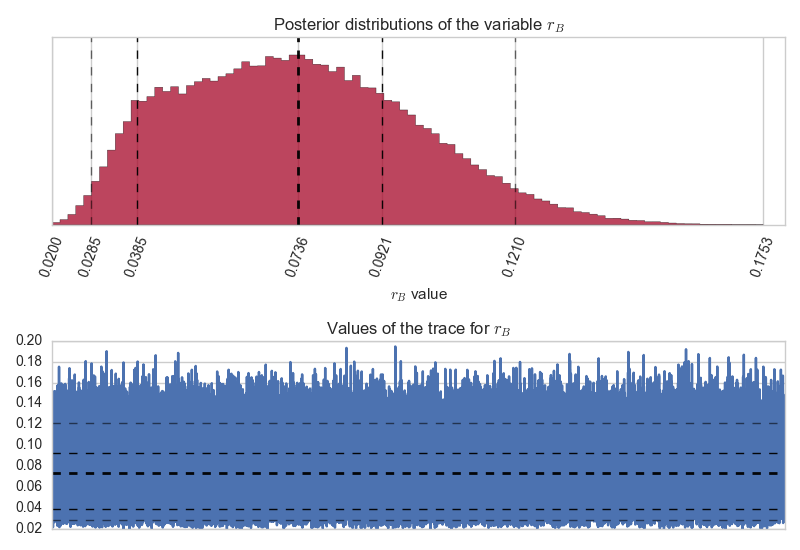
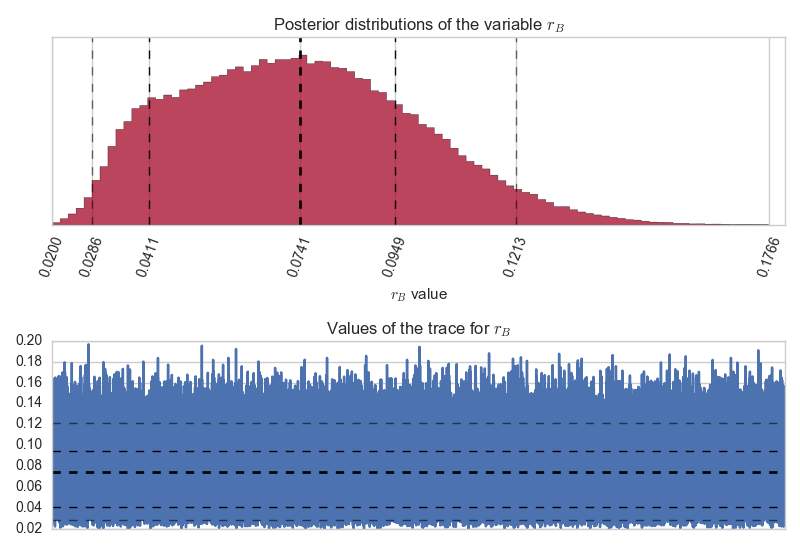
improved performance

diff --git a/combiner_pymc.py b/combiner_pymc.py
@@ -18,9 +18,8 @@ tstr = PyGammaCombo.TString
 sns.set_style("whitegrid")
 matplotlib.rcParams.update({'font.size': 10})
 N = 1000000 # Sample size (N/10 used for burning out)
-number_of_bins = 90
+number_of_bins = 100
 load_last_model = False
-experiment = PyGammaCombo.Utils.lumi3fb
 pgc_utils = PyGammaCombo.gammacombo_utils
 cout = PyGammaCombo.gammacombo_utils.getCout()
 
@@ -32,35 +31,11 @@ if __name__ == "__main__":
         deltaB = Uniform("deltaB", doc="$\delta_B$", lower=lower_limit, upper=upper_limit)
         rB = Uniform("rB", doc='$r_B$', lower=0.02, upper=0.2)
         var_list = [gamma, deltaB, rB]
-        parameters = PyGammaCombo.ParametersAbs()
-        g = parameters.newParameter(tstr("g"))
-        g.unit = tstr('Rad')
-        g.scan = parameters.range(commons.degToRad(lower_limit), commons.degToRad(upper_limit))
-        g.phys = parameters.range(-7, 7)
-        g.force = parameters.range(commons.degToRad(0), commons.degToRad(90))
-        g.bboos = parameters.range(commons.degToRad(0), commons.degToRad(180))
-
-        r_dk = parameters.newParameter(tstr("r_dk"))
-        r_dk.scan = parameters.range(0.02, 0.2)
-        r_dk.phys = parameters.range(0, 1e-4)
-        r_dk.force = parameters.range(0.02, 0.16)
-        r_dk.bboos = parameters.range(0.01, 0.22)
-
-
-        d_dk = parameters.newParameter(tstr("d_dk"))
-        d_dk.unit = tstr('Rad')
-        d_dk.scan = parameters.range(commons.degToRad(lower_limit), commons.degToRad(upper_limit))
-        g.phys = parameters.range(-7, 7)
-        g.force = parameters.range(commons.degToRad(0), commons.degToRad(90))
-        g.bboos = parameters.range(commons.degToRad(-180), commons.degToRad(180))
-        GGSZ_pdf = PyGammaCombo.PDF_GGSZ(experiment,
-                                             experiment,
-                                             experiment,
-                                             pars=parameters)
-        parameters = PyGammaCombo.RooArgSet(GGSZ_pdf.getParameters())
-
-        pdf = GGSZ_pdf.getPdf()
-
+        gce = PyGammaCombo.gammacombo_utils.getGammaComboEngine("")
+        cmb = gce.getCombiner(26)
+        cmb.combine()
+        parameters = cmb.getParameters()
+        pdf = cmb.getPdf()
 
         #Averaged experiments
         @stochastic
@@ -72,17 +47,17 @@ if __name__ == "__main__":
 
         # Model
         if load_last_model:
-            mcmc = pymc.database.pickle.load('mcmc-{}_gc.pickle'.format(name))
+            mcmc = pymc.database.pickle.load('mcmc-{}_combiner.pickle'.format(name))
         else:
             mcmc = MCMC([ggsz, gamma, deltaB, rB],
                         db='pickle',
                         dbmode='w',
-                        dbname='mcmc-{}_gc.pickle'.format(name))
+                        dbname='mcmc-{}_combiner.pickle'.format(name))
             mcmc.sample(iter = N, burn = min(5000, int(N/10)), thin = 1)
 
         for v in var_list:
-            plot(mcmc.trace(v.__name__)[:], v.__doc__, "pics/{}_{}_gc.png".format(name, v.__name__))
+            plot(mcmc.trace(v.__name__)[:], v.__doc__, "pics/{}_{}_combiner.png".format(name, v.__name__))
 
         for x,y in combinations(var_list, 2):
             plot_2d_hist(mcmc.trace(x.__name__)[:], mcmc.trace(y.__name__)[:],
-                         "pics/{}_{}-{}_hist_gc.png".format(name, x.__name__, y.__name__))
+                         "pics/{}_{}-{}_hist_combiner.png".format(name, x.__name__, y.__name__))
